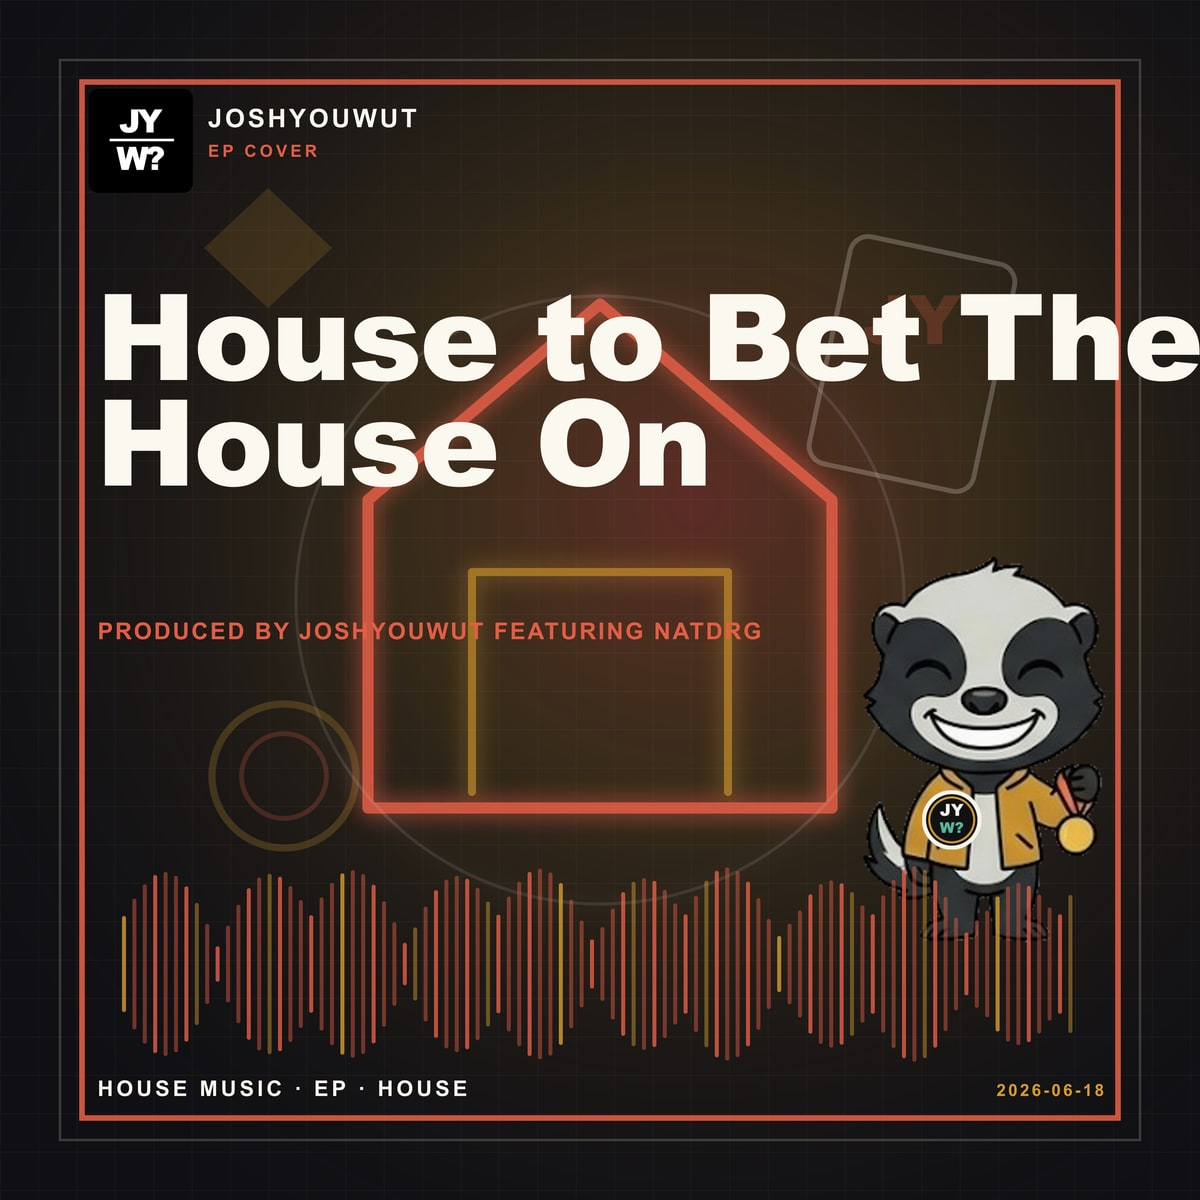
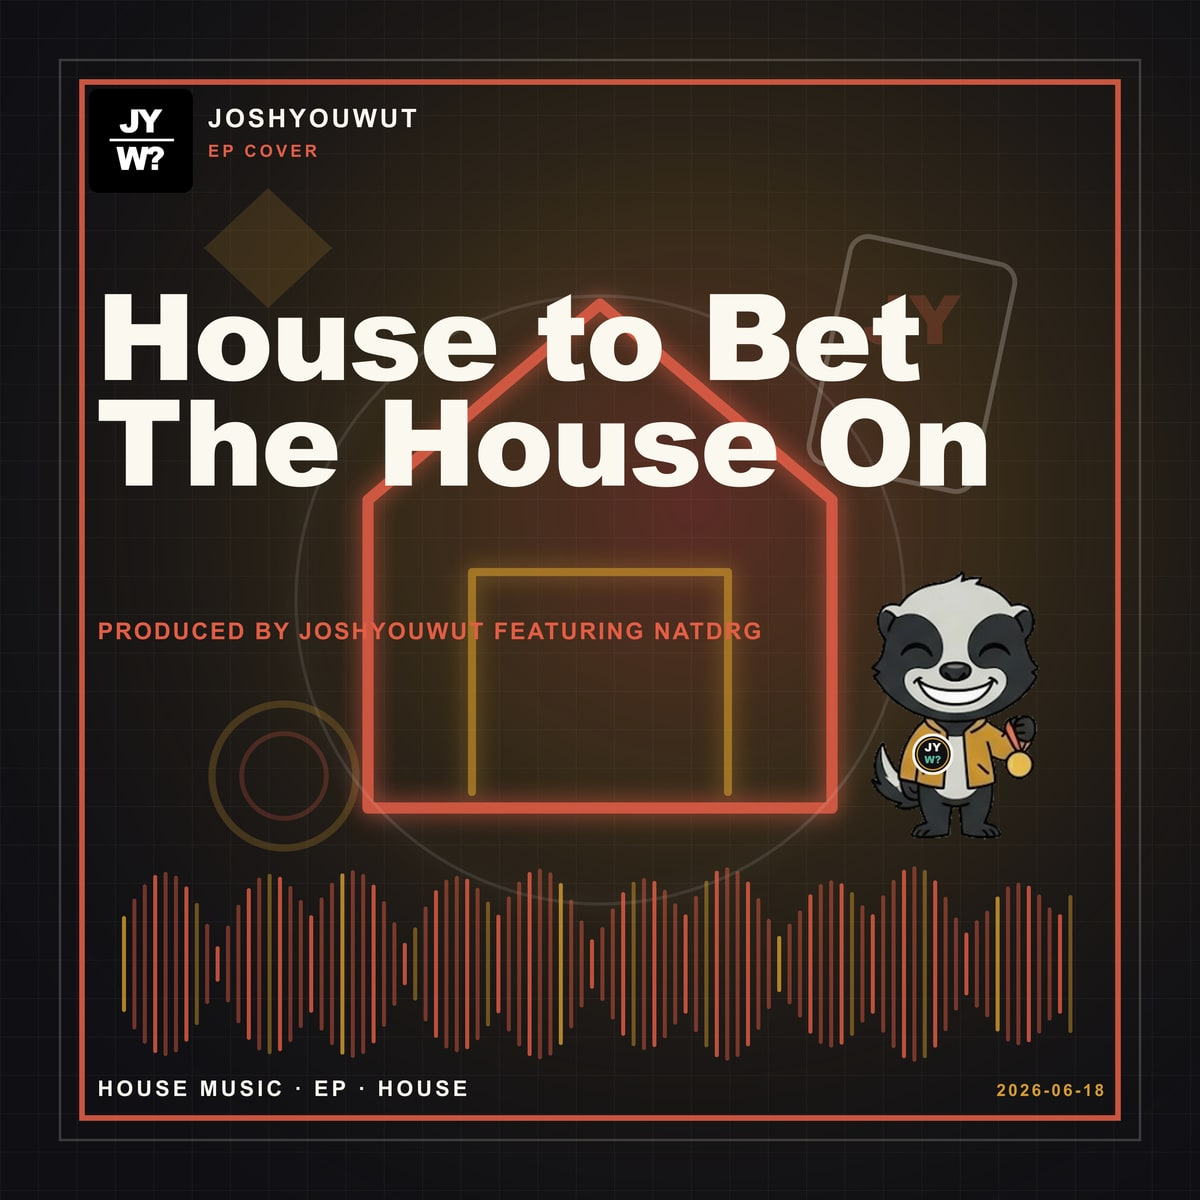
Constrain cover vote text and mascots

diff --git a/house-to-bet-the-house-on-vote-20260613.html b/house-to-bet-the-house-on-vote-20260613.html
@@ -171,68 +171,68 @@
         Pick the strongest version for each single and the EP cover. The full-resolution masters and editable SVG sources remain in the Google Drive project folder.
       </p>
 
-      <img class="contact-sheet" src="assets/releases/house-to-bet-the-house-on/voting-contact-sheet-house-to-bet.jpg?v=20260617-geminibadgers-large" alt="Voting contact sheet for House to Bet The House On cover art">
+      <img class="contact-sheet" src="assets/releases/house-to-bet-the-house-on/voting-contact-sheet-house-to-bet.jpg?v=20260618-safe-layout" alt="Voting contact sheet for House to Bet The House On cover art">
 
       <section class="release-row">
         <h2>EP Cover</h2>
         <div class="grid">
-          <figure><img src="assets/releases/house-to-bet-the-house-on/00-house-to-bet-the-house-on-ep-cover-v1-club-pulse.jpg?v=20260617-geminibadgers-large" alt="EP cover option V1 Club Pulse"><figcaption><b>V1</b><span>Club Pulse</span></figcaption></figure>
-          <figure><img src="assets/releases/house-to-bet-the-house-on/00-house-to-bet-the-house-on-ep-cover-v2-bet-floor.jpg?v=20260617-geminibadgers-large" alt="EP cover option V2 Bet Floor"><figcaption><b>V2</b><span>Bet Floor</span></figcaption></figure>
-          <figure><img src="assets/releases/house-to-bet-the-house-on/00-house-to-bet-the-house-on-ep-cover-v3-night-roof.jpg?v=20260617-geminibadgers-large" alt="EP cover option V3 Night Roof"><figcaption><b>V3</b><span>Night Roof</span></figcaption></figure>
+          <figure><img src="assets/releases/house-to-bet-the-house-on/00-house-to-bet-the-house-on-ep-cover-v1-club-pulse.jpg?v=20260618-safe-layout" alt="EP cover option V1 Club Pulse"><figcaption><b>V1</b><span>Club Pulse</span></figcaption></figure>
+          <figure><img src="assets/releases/house-to-bet-the-house-on/00-house-to-bet-the-house-on-ep-cover-v2-bet-floor.jpg?v=20260618-safe-layout" alt="EP cover option V2 Bet Floor"><figcaption><b>V2</b><span>Bet Floor</span></figcaption></figure>
+          <figure><img src="assets/releases/house-to-bet-the-house-on/00-house-to-bet-the-house-on-ep-cover-v3-night-roof.jpg?v=20260618-safe-layout" alt="EP cover option V3 Night Roof"><figcaption><b>V3</b><span>Night Roof</span></figcaption></figure>
         </div>
       </section>
 
       <section class="release-row">
         <h2>Dreams</h2>
         <div class="grid">
-          <figure><img src="assets/releases/house-to-bet-the-house-on/01-dreams-v1-club-pulse.jpg?v=20260617-geminibadgers-large" alt="Dreams option V1 Club Pulse"><figcaption><b>V1</b><span>Club Pulse</span></figcaption></figure>
-          <figure><img src="assets/releases/house-to-bet-the-house-on/01-dreams-v2-bet-floor.jpg?v=20260617-geminibadgers-large" alt="Dreams option V2 Bet Floor"><figcaption><b>V2</b><span>Bet Floor</span></figcaption></figure>
-          <figure><img src="assets/releases/house-to-bet-the-house-on/01-dreams-v3-night-roof.jpg?v=20260617-geminibadgers-large" alt="Dreams option V3 Night Roof"><figcaption><b>V3</b><span>Night Roof</span></figcaption></figure>
+          <figure><img src="assets/releases/house-to-bet-the-house-on/01-dreams-v1-club-pulse.jpg?v=20260618-safe-layout" alt="Dreams option V1 Club Pulse"><figcaption><b>V1</b><span>Club Pulse</span></figcaption></figure>
+          <figure><img src="assets/releases/house-to-bet-the-house-on/01-dreams-v2-bet-floor.jpg?v=20260618-safe-layout" alt="Dreams option V2 Bet Floor"><figcaption><b>V2</b><span>Bet Floor</span></figcaption></figure>
+          <figure><img src="assets/releases/house-to-bet-the-house-on/01-dreams-v3-night-roof.jpg?v=20260618-safe-layout" alt="Dreams option V3 Night Roof"><figcaption><b>V3</b><span>Night Roof</span></figcaption></figure>
         </div>
       </section>
 
       <section class="release-row">
         <h2>Not Gunna Fight</h2>
         <div class="grid">
-          <figure><img src="assets/releases/house-to-bet-the-house-on/02-not-gunna-fight-v1-club-pulse.jpg?v=20260617-geminibadgers-large" alt="Not Gunna Fight option V1 Club Pulse"><figcaption><b>V1</b><span>Club Pulse</span></figcaption></figure>
-          <figure><img src="assets/releases/house-to-bet-the-house-on/02-not-gunna-fight-v2-bet-floor.jpg?v=20260617-geminibadgers-large" alt="Not Gunna Fight option V2 Bet Floor"><figcaption><b>V2</b><span>Bet Floor</span></figcaption></figure>
-          <figure><img src="assets/releases/house-to-bet-the-house-on/02-not-gunna-fight-v3-night-roof.jpg?v=20260617-geminibadgers-large" alt="Not Gunna Fight option V3 Night Roof"><figcaption><b>V3</b><span>Night Roof</span></figcaption></figure>
+          <figure><img src="assets/releases/house-to-bet-the-house-on/02-not-gunna-fight-v1-club-pulse.jpg?v=20260618-safe-layout" alt="Not Gunna Fight option V1 Club Pulse"><figcaption><b>V1</b><span>Club Pulse</span></figcaption></figure>
+          <figure><img src="assets/releases/house-to-bet-the-house-on/02-not-gunna-fight-v2-bet-floor.jpg?v=20260618-safe-layout" alt="Not Gunna Fight option V2 Bet Floor"><figcaption><b>V2</b><span>Bet Floor</span></figcaption></figure>
+          <figure><img src="assets/releases/house-to-bet-the-house-on/02-not-gunna-fight-v3-night-roof.jpg?v=20260618-safe-layout" alt="Not Gunna Fight option V3 Night Roof"><figcaption><b>V3</b><span>Night Roof</span></figcaption></figure>
         </div>
       </section>
 
       <section class="release-row">
         <h2>Just Move</h2>
         <div class="grid">
-          <figure><img src="assets/releases/house-to-bet-the-house-on/03-just-move-v1-club-pulse.jpg?v=20260617-geminibadgers-large" alt="Just Move option V1 Club Pulse"><figcaption><b>V1</b><span>Club Pulse</span></figcaption></figure>
-          <figure><img src="assets/releases/house-to-bet-the-house-on/03-just-move-v2-bet-floor.jpg?v=20260617-geminibadgers-large" alt="Just Move option V2 Bet Floor"><figcaption><b>V2</b><span>Bet Floor</span></figcaption></figure>
-          <figure><img src="assets/releases/house-to-bet-the-house-on/03-just-move-v3-night-roof.jpg?v=20260617-geminibadgers-large" alt="Just Move option V3 Night Roof"><figcaption><b>V3</b><span>Night Roof</span></figcaption></figure>
+          <figure><img src="assets/releases/house-to-bet-the-house-on/03-just-move-v1-club-pulse.jpg?v=20260618-safe-layout" alt="Just Move option V1 Club Pulse"><figcaption><b>V1</b><span>Club Pulse</span></figcaption></figure>
+          <figure><img src="assets/releases/house-to-bet-the-house-on/03-just-move-v2-bet-floor.jpg?v=20260618-safe-layout" alt="Just Move option V2 Bet Floor"><figcaption><b>V2</b><span>Bet Floor</span></figcaption></figure>
+          <figure><img src="assets/releases/house-to-bet-the-house-on/03-just-move-v3-night-roof.jpg?v=20260618-safe-layout" alt="Just Move option V3 Night Roof"><figcaption><b>V3</b><span>Night Roof</span></figcaption></figure>
         </div>
       </section>
 
       <section class="release-row">
         <h2>Lil Bass Baby Demo</h2>
         <div class="grid">
-          <figure><img src="assets/releases/house-to-bet-the-house-on/04-lil-bass-baby-demo-v1-club-pulse.jpg?v=20260617-geminibadgers-large" alt="Lil Bass Baby Demo option V1 Club Pulse"><figcaption><b>V1</b><span>Club Pulse</span></figcaption></figure>
-          <figure><img src="assets/releases/house-to-bet-the-house-on/04-lil-bass-baby-demo-v2-bet-floor.jpg?v=20260617-geminibadgers-large" alt="Lil Bass Baby Demo option V2 Bet Floor"><figcaption><b>V2</b><span>Bet Floor</span></figcaption></figure>
-          <figure><img src="assets/releases/house-to-bet-the-house-on/04-lil-bass-baby-demo-v3-night-roof.jpg?v=20260617-geminibadgers-large" alt="Lil Bass Baby Demo option V3 Night Roof"><figcaption><b>V3</b><span>Night Roof</span></figcaption></figure>
+          <figure><img src="assets/releases/house-to-bet-the-house-on/04-lil-bass-baby-demo-v1-club-pulse.jpg?v=20260618-safe-layout" alt="Lil Bass Baby Demo option V1 Club Pulse"><figcaption><b>V1</b><span>Club Pulse</span></figcaption></figure>
+          <figure><img src="assets/releases/house-to-bet-the-house-on/04-lil-bass-baby-demo-v2-bet-floor.jpg?v=20260618-safe-layout" alt="Lil Bass Baby Demo option V2 Bet Floor"><figcaption><b>V2</b><span>Bet Floor</span></figcaption></figure>
+          <figure><img src="assets/releases/house-to-bet-the-house-on/04-lil-bass-baby-demo-v3-night-roof.jpg?v=20260618-safe-layout" alt="Lil Bass Baby Demo option V3 Night Roof"><figcaption><b>V3</b><span>Night Roof</span></figcaption></figure>
         </div>
       </section>
 
       <section class="release-row">
         <h2>Feels Right</h2>
         <div class="grid">
-          <figure><img src="assets/releases/house-to-bet-the-house-on/05-feels-right-v1-club-pulse.jpg?v=20260617-geminibadgers-large" alt="Feels Right option V1 Club Pulse"><figcaption><b>V1</b><span>Club Pulse</span></figcaption></figure>
-          <figure><img src="assets/releases/house-to-bet-the-house-on/05-feels-right-v2-bet-floor.jpg?v=20260617-geminibadgers-large" alt="Feels Right option V2 Bet Floor"><figcaption><b>V2</b><span>Bet Floor</span></figcaption></figure>
-          <figure><img src="assets/releases/house-to-bet-the-house-on/05-feels-right-v3-night-roof.jpg?v=20260617-geminibadgers-large" alt="Feels Right option V3 Night Roof"><figcaption><b>V3</b><span>Night Roof</span></figcaption></figure>
+          <figure><img src="assets/releases/house-to-bet-the-house-on/05-feels-right-v1-club-pulse.jpg?v=20260618-safe-layout" alt="Feels Right option V1 Club Pulse"><figcaption><b>V1</b><span>Club Pulse</span></figcaption></figure>
+          <figure><img src="assets/releases/house-to-bet-the-house-on/05-feels-right-v2-bet-floor.jpg?v=20260618-safe-layout" alt="Feels Right option V2 Bet Floor"><figcaption><b>V2</b><span>Bet Floor</span></figcaption></figure>
+          <figure><img src="assets/releases/house-to-bet-the-house-on/05-feels-right-v3-night-roof.jpg?v=20260618-safe-layout" alt="Feels Right option V3 Night Roof"><figcaption><b>V3</b><span>Night Roof</span></figcaption></figure>
         </div>
       </section>
 
       <section class="release-row">
         <h2>Take it To The House</h2>
         <div class="grid">
-          <figure><img src="assets/releases/house-to-bet-the-house-on/06-take-it-to-the-house-v1-club-pulse.jpg?v=20260617-geminibadgers-large" alt="Take it To The House option V1 Club Pulse"><figcaption><b>V1</b><span>Club Pulse</span></figcaption></figure>
-          <figure><img src="assets/releases/house-to-bet-the-house-on/06-take-it-to-the-house-v2-bet-floor.jpg?v=20260617-geminibadgers-large" alt="Take it To The House option V2 Bet Floor"><figcaption><b>V2</b><span>Bet Floor</span></figcaption></figure>
-          <figure><img src="assets/releases/house-to-bet-the-house-on/06-take-it-to-the-house-v3-night-roof.jpg?v=20260617-geminibadgers-large" alt="Take it To The House option V3 Night Roof"><figcaption><b>V3</b><span>Night Roof</span></figcaption></figure>
+          <figure><img src="assets/releases/house-to-bet-the-house-on/06-take-it-to-the-house-v1-club-pulse.jpg?v=20260618-safe-layout" alt="Take it To The House option V1 Club Pulse"><figcaption><b>V1</b><span>Club Pulse</span></figcaption></figure>
+          <figure><img src="assets/releases/house-to-bet-the-house-on/06-take-it-to-the-house-v2-bet-floor.jpg?v=20260618-safe-layout" alt="Take it To The House option V2 Bet Floor"><figcaption><b>V2</b><span>Bet Floor</span></figcaption></figure>
+          <figure><img src="assets/releases/house-to-bet-the-house-on/06-take-it-to-the-house-v3-night-roof.jpg?v=20260618-safe-layout" alt="Take it To The House option V3 Night Roof"><figcaption><b>V3</b><span>Night Roof</span></figcaption></figure>
         </div>
       </section>
     </main>

diff --git a/house-to-bet-the-house-on-vote-20260617.html b/house-to-bet-the-house-on-vote-20260617.html
@@ -171,68 +171,68 @@
         Pick the strongest version for each single and the EP cover. The full-resolution masters and editable SVG sources remain in the Google Drive project folder.
       </p>
 
-      <img class="contact-sheet" src="assets/releases/house-to-bet-the-house-on/voting-contact-sheet-house-to-bet.jpg?v=20260617-geminibadgers-large" alt="Voting contact sheet for House to Bet The House On cover art">
+      <img class="contact-sheet" src="assets/releases/house-to-bet-the-house-on/voting-contact-sheet-house-to-bet.jpg?v=20260618-safe-layout" alt="Voting contact sheet for House to Bet The House On cover art">
 
       <section class="release-row">
         <h2>EP Cover</h2>
         <div class="grid">
-          <figure><img src="assets/releases/house-to-bet-the-house-on/00-house-to-bet-the-house-on-ep-cover-v1-club-pulse.jpg?v=20260617-geminibadgers-large" alt="EP cover option V1 Club Pulse"><figcaption><b>V1</b><span>Club Pulse</span></figcaption></figure>
-          <figure><img src="assets/releases/house-to-bet-the-house-on/00-house-to-bet-the-house-on-ep-cover-v2-bet-floor.jpg?v=20260617-geminibadgers-large" alt="EP cover option V2 Bet Floor"><figcaption><b>V2</b><span>Bet Floor</span></figcaption></figure>
-          <figure><img src="assets/releases/house-to-bet-the-house-on/00-house-to-bet-the-house-on-ep-cover-v3-night-roof.jpg?v=20260617-geminibadgers-large" alt="EP cover option V3 Night Roof"><figcaption><b>V3</b><span>Night Roof</span></figcaption></figure>
+          <figure><img src="assets/releases/house-to-bet-the-house-on/00-house-to-bet-the-house-on-ep-cover-v1-club-pulse.jpg?v=20260618-safe-layout" alt="EP cover option V1 Club Pulse"><figcaption><b>V1</b><span>Club Pulse</span></figcaption></figure>
+          <figure><img src="assets/releases/house-to-bet-the-house-on/00-house-to-bet-the-house-on-ep-cover-v2-bet-floor.jpg?v=20260618-safe-layout" alt="EP cover option V2 Bet Floor"><figcaption><b>V2</b><span>Bet Floor</span></figcaption></figure>
+          <figure><img src="assets/releases/house-to-bet-the-house-on/00-house-to-bet-the-house-on-ep-cover-v3-night-roof.jpg?v=20260618-safe-layout" alt="EP cover option V3 Night Roof"><figcaption><b>V3</b><span>Night Roof</span></figcaption></figure>
         </div>
       </section>
 
       <section class="release-row">
         <h2>Dreams</h2>
         <div class="grid">
-          <figure><img src="assets/releases/house-to-bet-the-house-on/01-dreams-v1-club-pulse.jpg?v=20260617-geminibadgers-large" alt="Dreams option V1 Club Pulse"><figcaption><b>V1</b><span>Club Pulse</span></figcaption></figure>
-          <figure><img src="assets/releases/house-to-bet-the-house-on/01-dreams-v2-bet-floor.jpg?v=20260617-geminibadgers-large" alt="Dreams option V2 Bet Floor"><figcaption><b>V2</b><span>Bet Floor</span></figcaption></figure>
-          <figure><img src="assets/releases/house-to-bet-the-house-on/01-dreams-v3-night-roof.jpg?v=20260617-geminibadgers-large" alt="Dreams option V3 Night Roof"><figcaption><b>V3</b><span>Night Roof</span></figcaption></figure>
+          <figure><img src="assets/releases/house-to-bet-the-house-on/01-dreams-v1-club-pulse.jpg?v=20260618-safe-layout" alt="Dreams option V1 Club Pulse"><figcaption><b>V1</b><span>Club Pulse</span></figcaption></figure>
+          <figure><img src="assets/releases/house-to-bet-the-house-on/01-dreams-v2-bet-floor.jpg?v=20260618-safe-layout" alt="Dreams option V2 Bet Floor"><figcaption><b>V2</b><span>Bet Floor</span></figcaption></figure>
+          <figure><img src="assets/releases/house-to-bet-the-house-on/01-dreams-v3-night-roof.jpg?v=20260618-safe-layout" alt="Dreams option V3 Night Roof"><figcaption><b>V3</b><span>Night Roof</span></figcaption></figure>
         </div>
       </section>
 
       <section class="release-row">
         <h2>Not Gunna Fight</h2>
         <div class="grid">
-          <figure><img src="assets/releases/house-to-bet-the-house-on/02-not-gunna-fight-v1-club-pulse.jpg?v=20260617-geminibadgers-large" alt="Not Gunna Fight option V1 Club Pulse"><figcaption><b>V1</b><span>Club Pulse</span></figcaption></figure>
-          <figure><img src="assets/releases/house-to-bet-the-house-on/02-not-gunna-fight-v2-bet-floor.jpg?v=20260617-geminibadgers-large" alt="Not Gunna Fight option V2 Bet Floor"><figcaption><b>V2</b><span>Bet Floor</span></figcaption></figure>
-          <figure><img src="assets/releases/house-to-bet-the-house-on/02-not-gunna-fight-v3-night-roof.jpg?v=20260617-geminibadgers-large" alt="Not Gunna Fight option V3 Night Roof"><figcaption><b>V3</b><span>Night Roof</span></figcaption></figure>
+          <figure><img src="assets/releases/house-to-bet-the-house-on/02-not-gunna-fight-v1-club-pulse.jpg?v=20260618-safe-layout" alt="Not Gunna Fight option V1 Club Pulse"><figcaption><b>V1</b><span>Club Pulse</span></figcaption></figure>
+          <figure><img src="assets/releases/house-to-bet-the-house-on/02-not-gunna-fight-v2-bet-floor.jpg?v=20260618-safe-layout" alt="Not Gunna Fight option V2 Bet Floor"><figcaption><b>V2</b><span>Bet Floor</span></figcaption></figure>
+          <figure><img src="assets/releases/house-to-bet-the-house-on/02-not-gunna-fight-v3-night-roof.jpg?v=20260618-safe-layout" alt="Not Gunna Fight option V3 Night Roof"><figcaption><b>V3</b><span>Night Roof</span></figcaption></figure>
         </div>
       </section>
 
       <section class="release-row">
         <h2>Just Move</h2>
         <div class="grid">
-          <figure><img src="assets/releases/house-to-bet-the-house-on/03-just-move-v1-club-pulse.jpg?v=20260617-geminibadgers-large" alt="Just Move option V1 Club Pulse"><figcaption><b>V1</b><span>Club Pulse</span></figcaption></figure>
-          <figure><img src="assets/releases/house-to-bet-the-house-on/03-just-move-v2-bet-floor.jpg?v=20260617-geminibadgers-large" alt="Just Move option V2 Bet Floor"><figcaption><b>V2</b><span>Bet Floor</span></figcaption></figure>
-          <figure><img src="assets/releases/house-to-bet-the-house-on/03-just-move-v3-night-roof.jpg?v=20260617-geminibadgers-large" alt="Just Move option V3 Night Roof"><figcaption><b>V3</b><span>Night Roof</span></figcaption></figure>
+          <figure><img src="assets/releases/house-to-bet-the-house-on/03-just-move-v1-club-pulse.jpg?v=20260618-safe-layout" alt="Just Move option V1 Club Pulse"><figcaption><b>V1</b><span>Club Pulse</span></figcaption></figure>
+          <figure><img src="assets/releases/house-to-bet-the-house-on/03-just-move-v2-bet-floor.jpg?v=20260618-safe-layout" alt="Just Move option V2 Bet Floor"><figcaption><b>V2</b><span>Bet Floor</span></figcaption></figure>
+          <figure><img src="assets/releases/house-to-bet-the-house-on/03-just-move-v3-night-roof.jpg?v=20260618-safe-layout" alt="Just Move option V3 Night Roof"><figcaption><b>V3</b><span>Night Roof</span></figcaption></figure>
         </div>
       </section>
 
       <section class="release-row">
         <h2>Lil Bass Baby Demo</h2>
         <div class="grid">
-          <figure><img src="assets/releases/house-to-bet-the-house-on/04-lil-bass-baby-demo-v1-club-pulse.jpg?v=20260617-geminibadgers-large" alt="Lil Bass Baby Demo option V1 Club Pulse"><figcaption><b>V1</b><span>Club Pulse</span></figcaption></figure>
-          <figure><img src="assets/releases/house-to-bet-the-house-on/04-lil-bass-baby-demo-v2-bet-floor.jpg?v=20260617-geminibadgers-large" alt="Lil Bass Baby Demo option V2 Bet Floor"><figcaption><b>V2</b><span>Bet Floor</span></figcaption></figure>
-          <figure><img src="assets/releases/house-to-bet-the-house-on/04-lil-bass-baby-demo-v3-night-roof.jpg?v=20260617-geminibadgers-large" alt="Lil Bass Baby Demo option V3 Night Roof"><figcaption><b>V3</b><span>Night Roof</span></figcaption></figure>
+          <figure><img src="assets/releases/house-to-bet-the-house-on/04-lil-bass-baby-demo-v1-club-pulse.jpg?v=20260618-safe-layout" alt="Lil Bass Baby Demo option V1 Club Pulse"><figcaption><b>V1</b><span>Club Pulse</span></figcaption></figure>
+          <figure><img src="assets/releases/house-to-bet-the-house-on/04-lil-bass-baby-demo-v2-bet-floor.jpg?v=20260618-safe-layout" alt="Lil Bass Baby Demo option V2 Bet Floor"><figcaption><b>V2</b><span>Bet Floor</span></figcaption></figure>
+          <figure><img src="assets/releases/house-to-bet-the-house-on/04-lil-bass-baby-demo-v3-night-roof.jpg?v=20260618-safe-layout" alt="Lil Bass Baby Demo option V3 Night Roof"><figcaption><b>V3</b><span>Night Roof</span></figcaption></figure>
         </div>
       </section>
 
       <section class="release-row">
         <h2>Feels Right</h2>
         <div class="grid">
-          <figure><img src="assets/releases/house-to-bet-the-house-on/05-feels-right-v1-club-pulse.jpg?v=20260617-geminibadgers-large" alt="Feels Right option V1 Club Pulse"><figcaption><b>V1</b><span>Club Pulse</span></figcaption></figure>
-          <figure><img src="assets/releases/house-to-bet-the-house-on/05-feels-right-v2-bet-floor.jpg?v=20260617-geminibadgers-large" alt="Feels Right option V2 Bet Floor"><figcaption><b>V2</b><span>Bet Floor</span></figcaption></figure>
-          <figure><img src="assets/releases/house-to-bet-the-house-on/05-feels-right-v3-night-roof.jpg?v=20260617-geminibadgers-large" alt="Feels Right option V3 Night Roof"><figcaption><b>V3</b><span>Night Roof</span></figcaption></figure>
+          <figure><img src="assets/releases/house-to-bet-the-house-on/05-feels-right-v1-club-pulse.jpg?v=20260618-safe-layout" alt="Feels Right option V1 Club Pulse"><figcaption><b>V1</b><span>Club Pulse</span></figcaption></figure>
+          <figure><img src="assets/releases/house-to-bet-the-house-on/05-feels-right-v2-bet-floor.jpg?v=20260618-safe-layout" alt="Feels Right option V2 Bet Floor"><figcaption><b>V2</b><span>Bet Floor</span></figcaption></figure>
+          <figure><img src="assets/releases/house-to-bet-the-house-on/05-feels-right-v3-night-roof.jpg?v=20260618-safe-layout" alt="Feels Right option V3 Night Roof"><figcaption><b>V3</b><span>Night Roof</span></figcaption></figure>
         </div>
       </section>
 
       <section class="release-row">
         <h2>Take it To The House</h2>
         <div class="grid">
-          <figure><img src="assets/releases/house-to-bet-the-house-on/06-take-it-to-the-house-v1-club-pulse.jpg?v=20260617-geminibadgers-large" alt="Take it To The House option V1 Club Pulse"><figcaption><b>V1</b><span>Club Pulse</span></figcaption></figure>
-          <figure><img src="assets/releases/house-to-bet-the-house-on/06-take-it-to-the-house-v2-bet-floor.jpg?v=20260617-geminibadgers-large" alt="Take it To The House option V2 Bet Floor"><figcaption><b>V2</b><span>Bet Floor</span></figcaption></figure>
-          <figure><img src="assets/releases/house-to-bet-the-house-on/06-take-it-to-the-house-v3-night-roof.jpg?v=20260617-geminibadgers-large" alt="Take it To The House option V3 Night Roof"><figcaption><b>V3</b><span>Night Roof</span></figcaption></figure>
+          <figure><img src="assets/releases/house-to-bet-the-house-on/06-take-it-to-the-house-v1-club-pulse.jpg?v=20260618-safe-layout" alt="Take it To The House option V1 Club Pulse"><figcaption><b>V1</b><span>Club Pulse</span></figcaption></figure>
+          <figure><img src="assets/releases/house-to-bet-the-house-on/06-take-it-to-the-house-v2-bet-floor.jpg?v=20260618-safe-layout" alt="Take it To The House option V2 Bet Floor"><figcaption><b>V2</b><span>Bet Floor</span></figcaption></figure>
+          <figure><img src="assets/releases/house-to-bet-the-house-on/06-take-it-to-the-house-v3-night-roof.jpg?v=20260618-safe-layout" alt="Take it To The House option V3 Night Roof"><figcaption><b>V3</b><span>Night Roof</span></figcaption></figure>
         </div>
       </section>
     </main>
